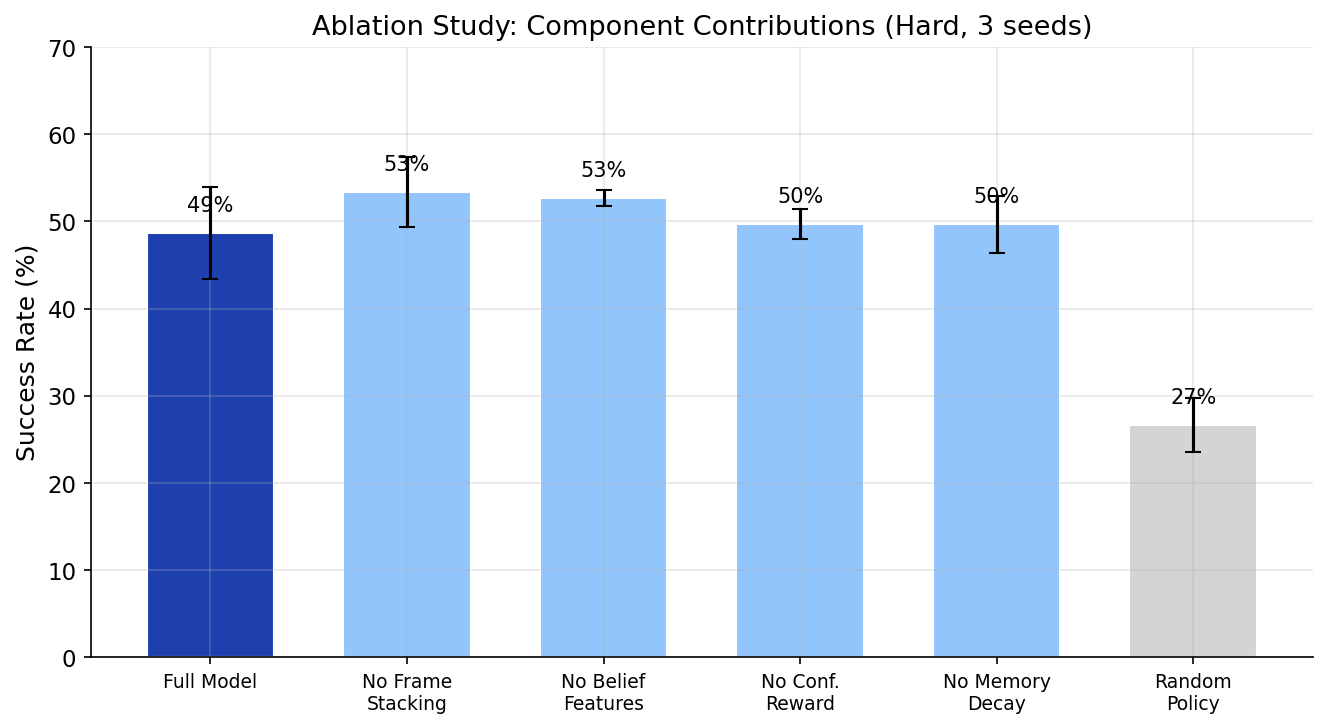
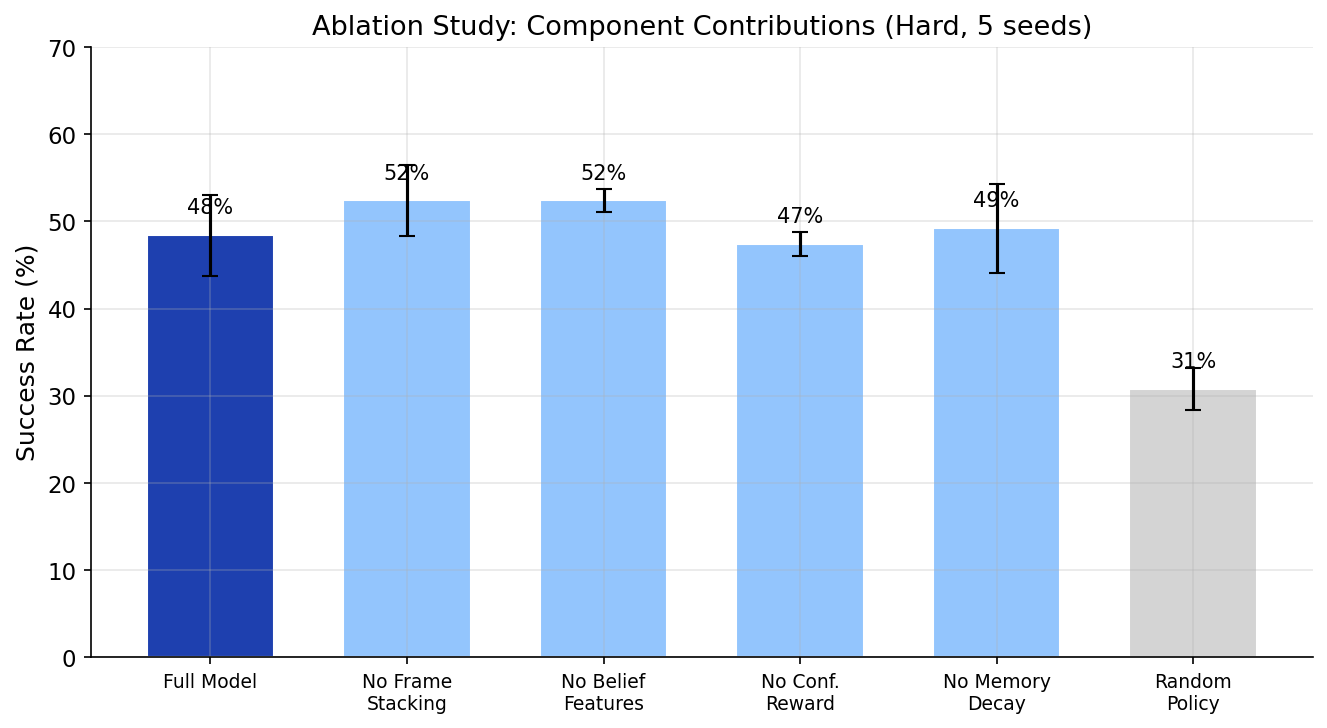
fix: update ablation figure to use 5-seed results (v3)

diff --git a/src/scoutmem_x/rl/visualize.py b/src/scoutmem_x/rl/visualize.py
@@ -121,7 +121,7 @@ def plot_multiseed(output_dir: Path) -> None:
 def plot_ablation(output_dir: Path) -> None:
     """Ablation study grouped bar chart."""
     # Try v2 first, then v1
-    for p in ["outputs/ablation_v2/ablation_results.json", "outputs/ablation/ablation_results.json"]:
+    for p in ["outputs/ablation_v3/ablation_results.json", "outputs/ablation_v2/ablation_results.json", "outputs/ablation/ablation_results.json"]:
         if Path(p).exists():
             with open(p) as f:
                 results = json.load(f)
@@ -157,7 +157,7 @@ def plot_ablation(output_dir: Path) -> None:
     ax.set_xticks(range(len(labels)))
     ax.set_xticklabels(labels, fontsize=9)
     ax.set_ylabel("Success Rate (%)")
-    ax.set_title("Ablation Study: Component Contributions (Hard, 3 seeds)")
+    ax.set_title("Ablation Study: Component Contributions (Hard, 5 seeds)")
     ax.set_ylim(0, 70)
 
     fig.tight_layout()
